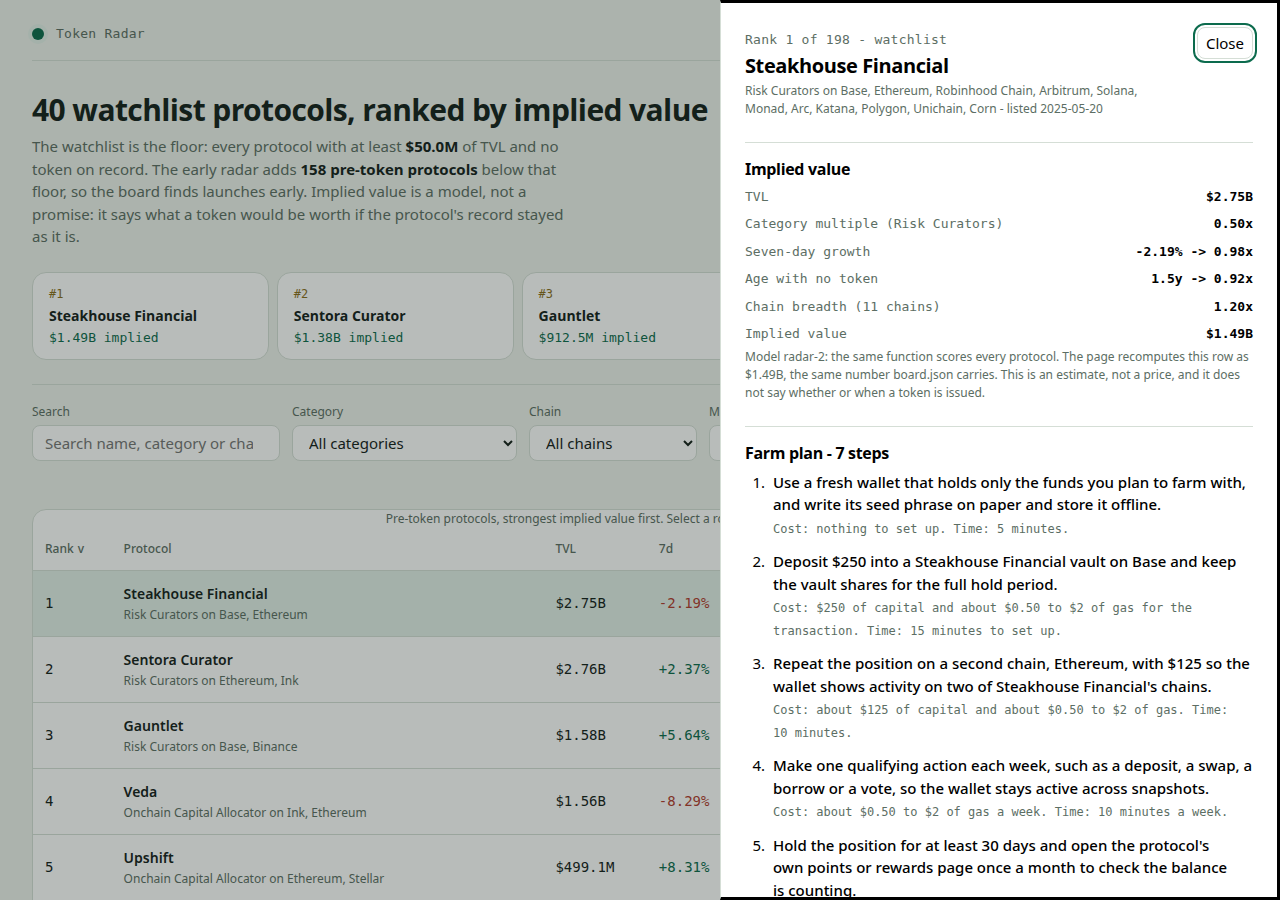
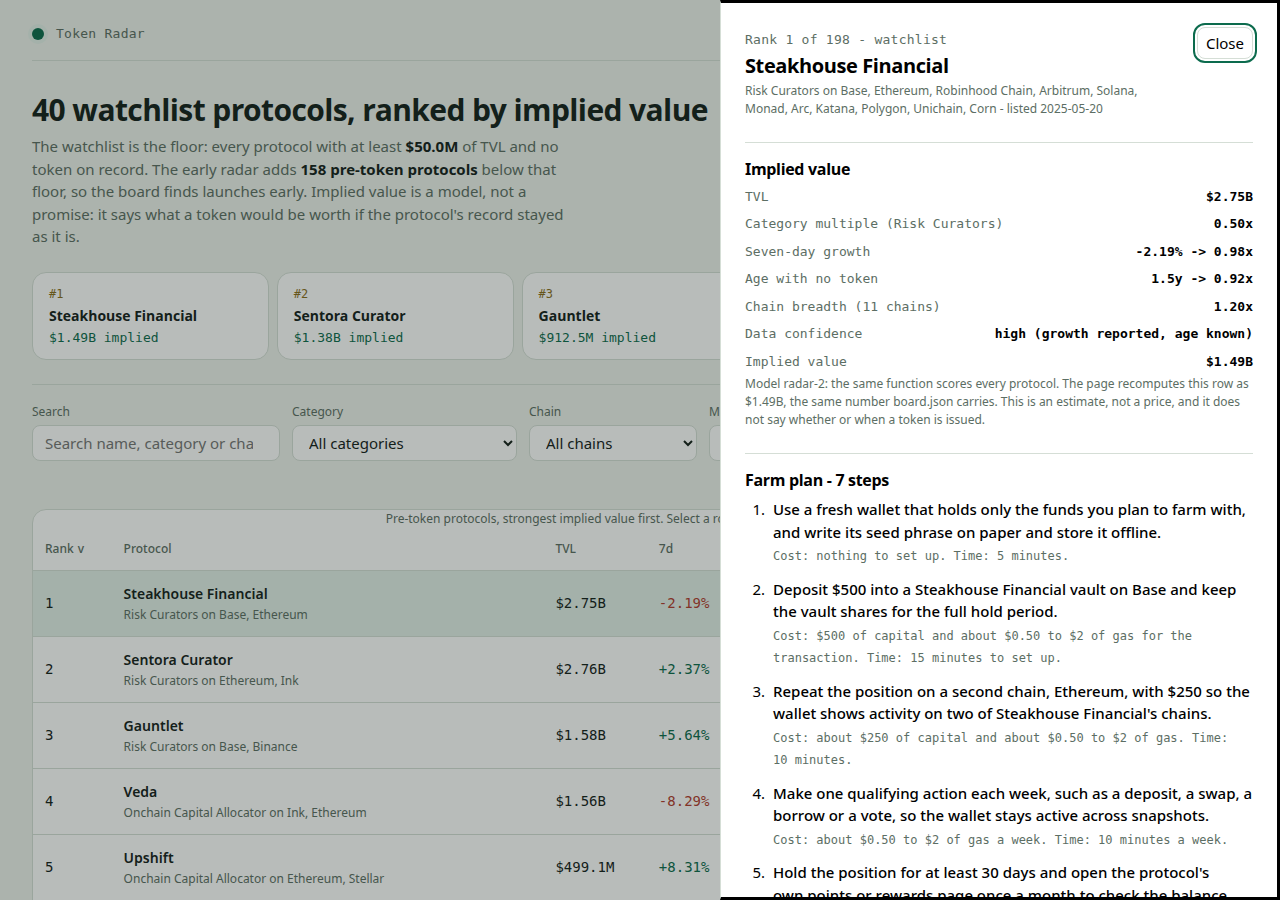
Fix license SPDX line; add per-row data confidence and retier farm capital
- LICENSE: add SPDX-License-Identifier: MIT (gate license_osi)
- lib/model.ts: confidenceOf() labels each row high/medium/low from
  whether the snapshot reports its 7-day growth and listing date;
  capital tiers retiered to $2B/$500M/$100M (top rows now farm $500)
- dashboard/app.js: detail drawer shows the confidence label and
  which inputs are missing
- screenshots retaken from the rebuilt dashboard

Changed region(s): [[0.5625, 0.3422, 1.0, 1.0]]

diff --git a/lib/model.ts b/lib/model.ts
@@ -23,6 +23,11 @@
 //   breadthMult  1 + 0.04 x min(chains - 1, 5). A protocol live on more chains has a
 //                wider distribution for a future token.
 //
+// Each row also carries a data-confidence label: high when the snapshot reports both
+// a 7-day change and a listing date for the protocol, medium when one of them is
+// missing, low when both are. A low-confidence row is ranked by the same function,
+// but the dashboard says so, so a reader knows which numbers rest on thin data.
+//
 // No protocol name is ever special-cased. Live-token protocols are kept apart and shown
 // with the market cap the snapshot records, never mixed into the ranking.
 
@@ -125,6 +130,18 @@ export function categoryMultiple(category: string | null): number {
   return 0.25;
 }
 
+/** How much of the snapshot's own data backs a row's implied value. */
+export type Confidence = 'high' | 'medium' | 'low';
+
+/** The confidence of a row, from whether the snapshot reports its growth and age. */
+export function confidenceOf(p: SnapshotProtocol): Confidence {
+  const hasGrowth = p.change_7d !== null;
+  const hasAge = p.listed_at !== null;
+  if (hasGrowth && hasAge) return 'high';
+  if (!hasGrowth && !hasAge) return 'low';
+  return 'medium';
+}
+
 /** A farm step: the action, what it costs, and how long it takes. */
 export interface FarmStep {
   text: string;
@@ -148,6 +165,7 @@ export interface BoardRow {
   token_status: 'pre-token';
   watchlist: boolean;
   age_days: number | null;
+  confidence: Confidence;
   implied_value_usd: number;
   model: {
     category_multiple: number;
@@ -172,6 +190,7 @@ export interface RadarRow {
   listed_at: string | null;
   age_days: number | null;
   watchlist: boolean;
+  confidence: Confidence;
   implied_value_usd: number;
   category_multiple: number;
   growth_multiplier: number;
@@ -321,6 +340,7 @@ export function buildBoard(snapshot: Snapshot, model: ModelConstants = MODEL): B
       token_status: 'pre-token' as const,
       watchlist: watch.has(s.p.slug),
       age_days: s.age,
+      confidence: confidenceOf(s.p),
       implied_value_usd: implied,
       model: {
         category_multiple: s.catMult,
@@ -352,8 +372,8 @@ function chainOf(p: SnapshotProtocol): string {
 
 /** How much capital one farm position needs, from the protocol's own TVL. */
 function capitalFor(p: SnapshotProtocol): number {
-  if (p.tvl_usd >= 5_000_000_000) return 500;
-  if (p.tvl_usd >= 1_000_000_000) return 250;
+  if (p.tvl_usd >= 2_000_000_000) return 500;
+  if (p.tvl_usd >= 500_000_000) return 250;
   if (p.tvl_usd >= 100_000_000) return 150;
   return 75;
 }
@@ -486,6 +506,7 @@ export function radarRow(row: BoardRow): RadarRow {
     listed_at: row.listed_at,
     age_days: row.age_days,
     watchlist: row.watchlist,
+    confidence: row.confidence,
     implied_value_usd: row.implied_value_usd,
     category_multiple: row.model.category_multiple,
     growth_multiplier: row.model.growth_multiplier,

diff --git a/dashboard/app.js b/dashboard/app.js
@@ -329,6 +329,7 @@
         el('div', null, el('span', { text: 'Seven-day growth' }), el('b', { class: 'num', text: fmtPct(row.change_7d) + ' -> ' + fmtMult(row.growth_multiplier) })),
         el('div', null, el('span', { text: 'Age with no token' }), el('b', { class: 'num', text: fmtAge(row.age_days) + ' -> ' + fmtMult(row.maturity_multiplier) })),
         el('div', null, el('span', { text: 'Chain breadth (' + (row.chains || []).length + ' chains)' }), el('b', { class: 'num', text: fmtMult(row.breadth_multiplier) })),
+        el('div', null, el('span', { text: 'Data confidence' }), el('b', { class: 'num', text: (row.confidence || 'medium') + ' (growth ' + (row.change_7d === null ? 'missing' : 'reported') + ', age ' + (row.age_days === null ? 'unknown' : 'known') + ')' })),
         el('div', null, el('span', { text: 'Implied value' }), el('b', { class: 'num', text: fmtUsd(row.implied_value_usd) }))
       ),
       el('p', { class: 'sub', text: 'Model ' + DATA.model_version + ': the same function scores every protocol. The page recomputes this row as ' + fmtUsd(recomputed) + (recomputed === row.implied_value_usd ? ', the same number board.json carries.' : ', which differs from the board: the data would be stale.') + ' This is an estimate, not a price, and it does not say whether or when a token is issued.' })
